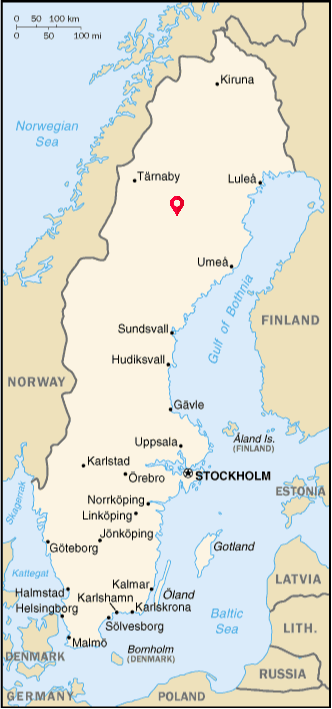
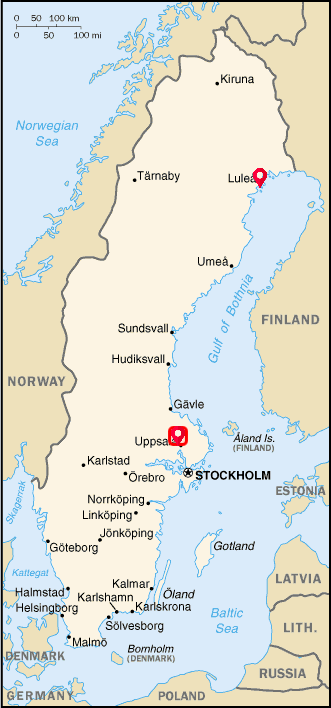
Har skapat en dialogruta istället för newNodeLabel med ett felmeddelande om inget anges

diff --git a/prog2-inlupp-template/gui/src/main/java/se/su/inlupp/OldAppHere.java b/prog2-inlupp-template/gui/src/main/java/se/su/inlupp/OldAppHere.java
@@ -35,7 +35,6 @@ import javafx.scene.control.MenuBar;
 import javafx.scene.control.MenuButton;
 import javafx.scene.control.MenuItem;
 import javafx.scene.control.TextField;
-import javafx.scene.control.TextInputDialog;
 import javafx.scene.image.Image;
 import javafx.scene.image.ImageView;
 import javafx.scene.input.MouseEvent;
@@ -48,7 +47,7 @@ import javafx.stage.FileChooser;
 import javafx.stage.Stage;
 import javafx.stage.WindowEvent;
 
-public class App extends Application {
+public class OldAppHere extends Application {
 
     private Stage stage;
     private Pane center;
@@ -61,8 +60,8 @@ public class App extends Application {
     private FileChooser fileChooser = new FileChooser();
     private boolean hasUnsavedChanges = false;
 
-    /*private TextField newNodeName = new TextField();
-    private Button saveNewNode = new Button("Spara nod");*/
+    private TextField newNodeName = new TextField();
+    private Button saveNewNode = new Button("Spara nod");
 
     private double newNodeX;
     private double newNodeY;
@@ -141,11 +140,11 @@ public class App extends Application {
         addNodeButton = new Button("Lägg till stad");
         addNodeButton.setOnAction(new AddNodeHandler());
 
-        //Label newNodeNameLabel = new Label("Ange stadens namn");
+        Label newNodeNameLabel = new Label("Ange stadens namn");
 
-        //saveNewNode.setDisable(true);
+        saveNewNode.setDisable(true);
 
-        Button removeNodeButton = new Button("Ta bort markör");
+        Button removeNodeButton = new Button("Ta bort nod");
         removeNodeButton.setOnAction(new RemoveNodeHandler());
 
         Button openButton = new Button("Öppna");
@@ -181,9 +180,9 @@ public class App extends Application {
         right.getChildren().addAll(
                 editLabel,
                 addNodeButton,
-                /*newNodeNameLabel,
+                newNodeNameLabel,
                 newNodeName,
-                saveNewNode,/* */
+                saveNewNode,
                 removeNodeButton,
                 openButton,
                 saveButton,
@@ -228,8 +227,10 @@ public class App extends Application {
         }
     }
 
-    /*class SaveNewNodeHandler implements EventHandler<ActionEvent> {
+    class SaveNewNodeHandler implements EventHandler<ActionEvent> {
         public void handle(ActionEvent event) {
+
+            //System.out.println("SaveNewNodeHandler körs"); //bara test!!
 
             if (newNodeName.getText().trim().isEmpty()) { 
                 Alert alert = new Alert(AlertType.WARNING, "Du måste ange ett namn på staden");
@@ -252,24 +253,29 @@ public class App extends Application {
 
                 needle = null;
                 }
-                center.setOnMouseClicked(null);   
-                center.setCursor(Cursor.DEFAULT); 
+                center.setOnMouseClicked(null);   //null
+                //System.out.println(center.getOnMouseClicked()); //bara test!!
+                center.setCursor(Cursor.DEFAULT); //DEFAULT
+                //System.out.println(center.getCursor()); //bara test!!
                 addNodeButton.setDisable(false);
+                //System.out.println(addNodeButton.isDisabled()); // bara test!!
                 newNodeName.clear();
                 hasUnsavedChanges = true;
 
                 System.out.println(listGraph.toString());
             }
         }
-    }*/
+    }
 
     class PutNodeHandler implements EventHandler<MouseEvent> {
         public void handle(MouseEvent event) {
             newNodeX = event.getX();
             newNodeY = event.getY();
 
+            // System.out.println("PutNodeHandler körs"); // bara test!!
+
             needle = new Destination(newNodeX, newNodeY);
-            /*if (newNodeName.getText().trim().isEmpty()) {
+            if (newNodeName.getText().trim().isEmpty()) {
                 Alert alert = new Alert(AlertType.ERROR, "Du måste ange ett namn på staden.");
                 alert.showAndWait();
             } else {
@@ -278,81 +284,22 @@ public class App extends Application {
 
             hasUnsavedChanges = true;
             saveNewNode.setDisable(false);
-            saveNewNode.setOnAction(new SaveNewNodeHandler());*/
+            saveNewNode.setOnAction(new SaveNewNodeHandler());
 
-            
+            //System.out.println(center.getOnMouseClicked()); // bara test!!
         }
     }
 
     class AddNodeHandler implements EventHandler<ActionEvent> {
         public void handle(ActionEvent event) {
 
+            // System.out.println("AddNodeHandler körs"); // bara test!!
 
-            /*PutNodeHandler putNodeHandler = new PutNodeHandler();
+            PutNodeHandler putNodeHandler = new PutNodeHandler();
 
             center.setOnMouseClicked(putNodeHandler);
             center.setCursor(Cursor.CROSSHAIR);
-            addNodeButton.setDisable(true);*/
-
-
-            //Skapar en dialogruta
-            TextInputDialog dialog = new TextInputDialog();
-
-            dialog.setTitle("Lägg till stad");
-            dialog.setHeaderText("Ange namnet på staden");
-
-            // systemt väntar till användaren svarar Ok för "ja"
-            // samt Cancel för "nej"
-            Optional<String> result = dialog.showAndWait();
-
-            // kontroll som kontrollerar om användaren skrev in något
-            if(result.isPresent()) {
-                String cityName = result.get().trim();
-
-                // om inget anges då dycker ett felmeddelande upp
-                if(cityName.isEmpty()) {
-
-                    Alert alert = new Alert(AlertType.ERROR);
-                    alert.setTitle("Error");
-                    alert.setHeaderText("Inget namn har angivits");
-                    alert.setContentText("För att gå vidare måste du ange ett namn på en stad");
-
-                    alert.showAndWait();
-
-                } else {
-                    center.setCursor(Cursor.CROSSHAIR);
-                    center.setOnMouseClicked(mouseEvent -> {
-                        double x = mouseEvent.getX();
-                        double y = mouseEvent.getY();
-
-                        City city = new City(cityName, x, y);
-                        Destination destination = new Destination(x, y);
-
-                        cityDestinations.put(city, destination);
-
-                        if(listGraph.hasNode(city)) {
-                            listGraph.remove(city);
-                        }
-
-                        destination.setOnMouseClicked(mouseEvent2 -> {
-                            mouseEvent2.consume();
-                            selectCity(city);
-                        });
-
-                        listGraph.add(city);
-
-                        center.getChildren().add(destination);
-
-                        hasUnsavedChanges = true;
-
-                        center.setOnMouseClicked(null);
-                        center.setCursor(Cursor.DEFAULT);
-
-                        System.out.println(listGraph);
-                    });
-                }
-            }
-
+            addNodeButton.setDisable(true);
         }
     }
 
